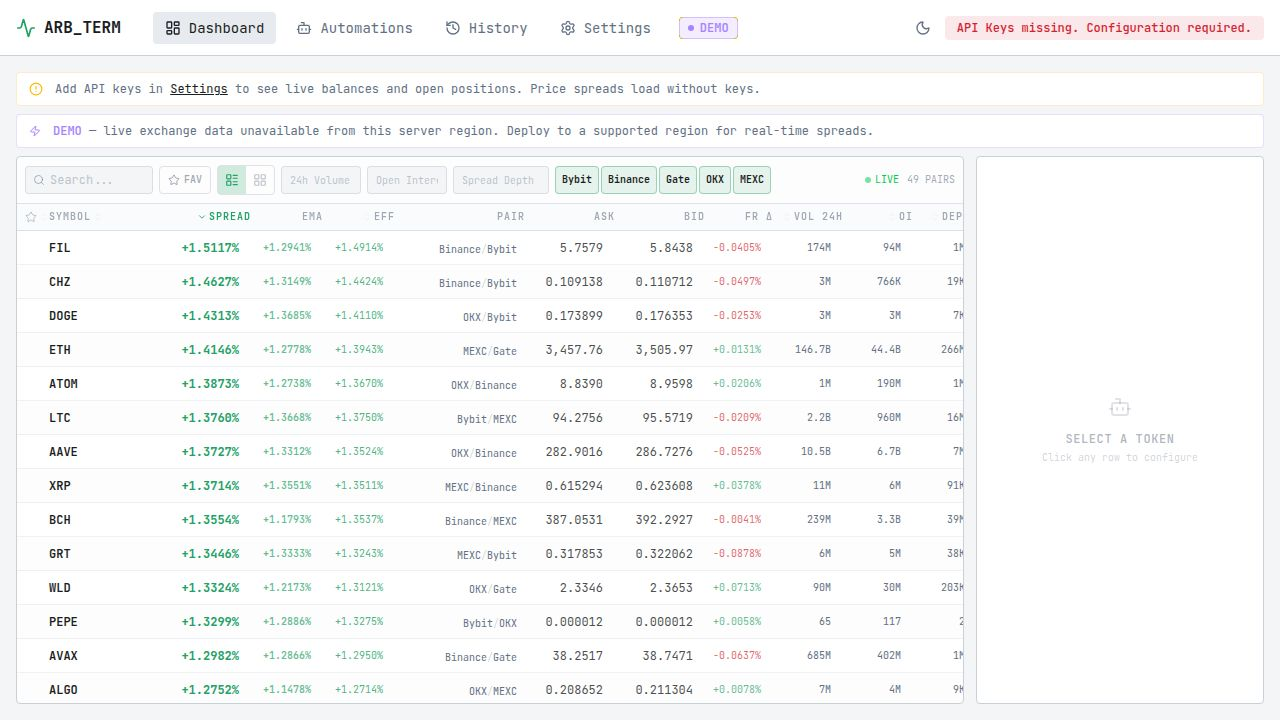
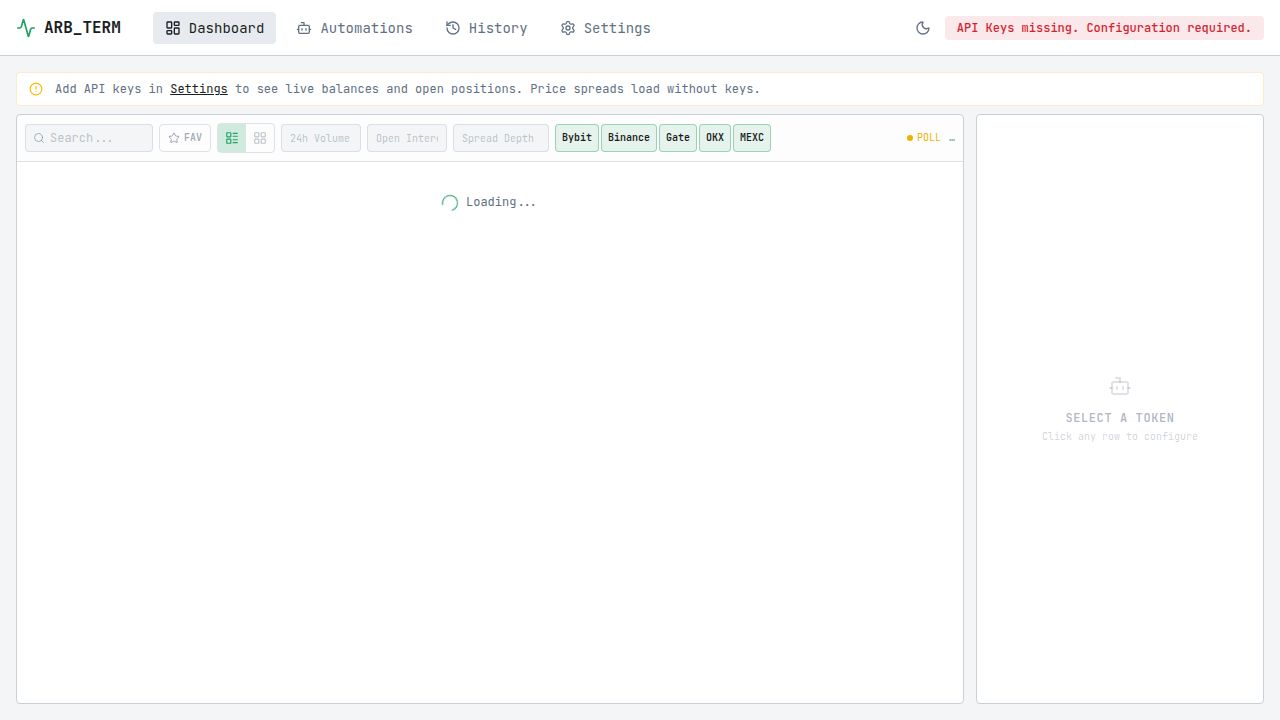
Task #129: Warn when bot exchange credentials aren't server-synced
## Changes

### token-detail-panel.tsx
- Replaced localStorage-based credential check (useExchangeCredentials) with a
  server-side check via useGetCredentialStatus (GET /api/credentials)
- Warning and button disable only activate once the credential status query has
  resolved — avoids false "not synced" messages while status is loading
- Added a prominent red warning banner with AlertTriangle icon when the selected
  Exchange A or Exchange B doesn't have credentials synced to the server
- Disabled the Start/Jump-In button when server credentials are missing; button
  label changes to "CREDENTIALS NOT SYNCED" with AlertTriangle icon
- Warning banner includes a direct link to Settings with clear copy explaining
  that the user must re-save their API keys for the bot to trade
- Removed now-unused useExchangeCredentials imports and ALL_EXCHANGE_KEYS constant

### settings.tsx
- Replaced the small inline "Sync failed" text with a full-width red banner
  (AlertTriangle icon + descriptive text) that appears inside the exchange card
  when a server sync fails after attempting to save
- Banner explains keys were saved locally but the server could not store them,
  and instructs the user to try saving again

### bot-watcher.ts (processBotConfig)
- Added a credential pre-check inside processBotConfig when shouldOpen is true,
  before delegating to openLeg
- Logs a WARN with symbol, exchangeA, exchangeB, and which exchange is missing
[…]

diff --git a/artifacts/arbitrage-app/src/components/token-detail-panel.tsx b/artifacts/arbitrage-app/src/components/token-detail-panel.tsx
@@ -1,12 +1,13 @@
 import { useState, useEffect } from "react";
 import { Link } from "wouter";
-import { Zap, X, XCircle, Power, LineChart } from "lucide-react";
+import { Zap, X, XCircle, Power, LineChart, AlertTriangle } from "lucide-react";
 import {
   useCreateBot,
   useUpdateBot,
   useStartBot,
   useStopBot,
   useStopAndCloseBot,
+  useGetCredentialStatus,
   getListBotsQueryKey,
   getGetBotLegsQueryKey,
 } from "@workspace/api-client-react";
@@ -16,10 +17,7 @@ import { Button } from "@/components/ui/button";
 import { useToast } from "@/hooks/use-toast";
 import { useQueryClient } from "@tanstack/react-query";
 import { useBotSecret } from "@/hooks/use-bot-secret";
-import { useExchangeCredentials, type SupportedExchange } from "@/hooks/use-exchange-credentials";
 import { getExchangeName } from "@/lib/exchange-config";
-
-const ALL_EXCHANGE_KEYS = ["bybit", "binance", "gate", "okx", "mexc"] as const;
 
 function getExchangeTokenData(token: TokenSpread, exchange: string) {
   switch (exchange) {
@@ -64,15 +62,9 @@ export function TokenDetailPanel({
   const { getBotRequestOptions } = useBotSecret();
   const botRequestOptions = getBotRequestOptions();
 
-  // Check API credentials for each exchange so we can warn when they're missing
-  const credsBybit   = useExchangeCredentials("bybit");
-  const credsBinance = useExchangeCredentials("binance");
-  const credsGate    = useExchangeCredentials("gate");
-  const credsOkx     = useExchangeCredentials("okx");
-  const credsMexc    = useExchangeCredentials("mexc");
-  const allCreds: Record<SupportedExchange, { hasCreds: boolean }> = {
-    bybit: credsBybit, binance: credsBinance, gate: credsGate, okx: credsOkx, mexc: credsMexc,
-  };
+  // Check which exchanges have credentials synced to the server
+  const { data: credentialStatus, isLoading: credStatusLoading } = useGetCredentialStatus({ request: botRequestOptions });
+  const serverSyncedExchanges = new Set(credentialStatus?.exchanges.map((e) => e.exchange) ?? []);
   const [botEnterSpread, setBotEnterSpread] = useState(() => {
     if (bot) return String(bot.enterSpreadPct);
     try { return localStorage.getItem("arbitrage-botEnterSpread") ?? "0.5"; } catch { return "0.5"; }
@@ -388,22 +380,41 @@ export function TokenDetailPanel({
         ) : (
           <>
             {(() => {
-              const missingCreds = [botExchangeA, botExchangeB].filter(
-                (ex) => !allCreds[ex as SupportedExchange]?.hasCreds
-              );
-              const missingLabels = missingCreds.map((ex) => getExchangeName(ex));
+              const credStatusKnown = !credStatusLoading && credentialStatus !== undefined;
+              const missingServerCreds = credStatusKnown
+                ? [botExchangeA, botExchangeB].filter((ex) => !serverSyncedExchanges.has(ex))
+                : [];
+              const missingLabels = missingServerCreds.map((ex) => getExchangeName(ex));
+              const credsMissing = missingServerCreds.length > 0;
               return (
                 <>
+                  {credsMissing && (
+                    <div className="flex items-start gap-2 rounded-md border border-destructive/50 bg-destructive/10 px-3 py-2.5" data-testid="credentials-warning-banner">
+                      <AlertTriangle className="w-3.5 h-3.5 text-destructive mt-0.5 shrink-0" />
+                      <p className="text-xs text-destructive leading-snug">
+                        <span className="font-semibold">{missingLabels.join(" & ")} credentials not synced to server.</span>{" "}
+                        Go to{" "}
+                        <Link href="/settings" className="underline hover:text-destructive/80 font-semibold">Settings</Link>
+                        {" "}and re-save your API keys so the bot can trade on your behalf.
+                      </p>
+                    </div>
+                  )}
                   <Button
                     onClick={handleBotStart}
-                    disabled={botBusy || missingCreds.length > 0}
+                    disabled={botBusy || credsMissing}
                     className="w-full bg-primary text-primary-foreground hover:bg-primary/90 font-bold text-sm py-5 tracking-wider"
                     data-testid="btn-bot-start"
+                    title={credsMissing ? `Credentials not synced: ${missingLabels.join(", ")}` : undefined}
                   >
                     {botBusy ? (
                       <span className="flex items-center gap-2">
                         <span className="w-3 h-3 border border-primary-foreground border-t-transparent rounded-full animate-spin" />
                         STARTING…
+                      </span>
+                    ) : credsMissing ? (
+                      <span className="flex items-center gap-2">
+                        <AlertTriangle className="w-4 h-4" />
+                        CREDENTIALS NOT SYNCED
                       </span>
                     ) : (
                       <span className="flex items-center gap-2">
@@ -412,12 +423,6 @@ export function TokenDetailPanel({
                       </span>
                     )}
                   </Button>
-                  {missingCreds.length > 0 && (
-                    <p className="text-xs text-destructive text-center">
-                      Add {missingLabels.join(" & ")} API keys in{" "}
-                      <Link href="/settings" className="underline hover:text-destructive/80">Settings</Link>
-                    </p>
-                  )}
                 </>
               );
             })()}
@@ -463,7 +468,7 @@ export function TokenDetailPanel({
 
       {/* Other exchanges — shows exchanges not selected as A or B */}
       {(() => {
-        const others = ALL_EXCHANGE_KEYS.filter((ex) => ex !== botExchangeA && ex !== botExchangeB);
+        const others = (["bybit", "binance", "gate", "okx", "mexc"] as const).filter((ex) => ex !== botExchangeA && ex !== botExchangeB);
         const othersWithData = others.filter((ex) => {
           const d = getExchangeTokenData(token, ex);
           return d.price != null;

diff --git a/artifacts/arbitrage-app/src/pages/settings.tsx b/artifacts/arbitrage-app/src/pages/settings.tsx
@@ -1,5 +1,5 @@
 import { useState } from "react";
-import { KeyRound, Eye, EyeOff, CheckCircle, Trash2, ExternalLink, Bell, Volume2, VolumeX, Server, Save } from "lucide-react";
+import { KeyRound, Eye, EyeOff, CheckCircle, Trash2, ExternalLink, Bell, Volume2, VolumeX, Server, Save, AlertTriangle } from "lucide-react";
 import { useAlertSettings } from "@/hooks/use-alert-settings";
 import { useWatchedTokens } from "@/hooks/use-watched-tokens";
 import { useToast } from "@/hooks/use-toast";
@@ -207,12 +207,17 @@ function ExchangeCard({ meta }: { meta: ExchangeMeta }) {
             <Server className="w-3.5 h-3.5" /> Synced
           </span>
         )}
-        {syncStatus === "error" && (
-          <span className="flex items-center gap-1 text-xs text-destructive ml-auto" data-testid={`sync-error-${meta.id}`}>
-            <Server className="w-3.5 h-3.5" /> Sync failed
-          </span>
-        )}
       </div>
+
+      {syncStatus === "error" && (
+        <div className="flex items-start gap-2 rounded-md border border-destructive/60 bg-destructive/10 px-3 py-2.5" data-testid={`sync-error-${meta.id}`}>
+          <AlertTriangle className="w-3.5 h-3.5 text-destructive mt-0.5 shrink-0" />
+          <p className="text-xs text-destructive leading-snug">
+            <span className="font-semibold">Server sync failed.</span>{" "}
+            Keys were saved locally but the server could not store them — the bot will not be able to trade. Check your connection and try saving again.
+          </p>
+        </div>
+      )}
     </div>
   );
 }

diff --git a/artifacts/api-server/src/services/bot-watcher.ts b/artifacts/api-server/src/services/bot-watcher.ts
@@ -321,6 +321,17 @@ async function processBotConfig(config: BotConfig, canOpen: boolean): Promise<vo
   const remainingOpen = openLegs.length - confirmedClosedCount;
   const shouldOpen = Math.abs(spreadPct) >= enterSpread && remainingOpen < config.maxOrders;
   if (shouldOpen) {
+    const [credsA, credsB] = await Promise.all([
+      getCachedCredentials(exchangeA as SupportedExchange),
+      getCachedCredentials(exchangeB as SupportedExchange),
+    ]);
+    if (!credsA || !credsB) {
+      logger.warn(
+        { symbol: config.symbol, exchangeA, exchangeB, missingA: !credsA, missingB: !credsB },
+        "Bot: skipping open — server credentials not synced for exchange pair",
+      );
+      return;
+    }
     await openLeg(config, spreadPct);
   }
 }